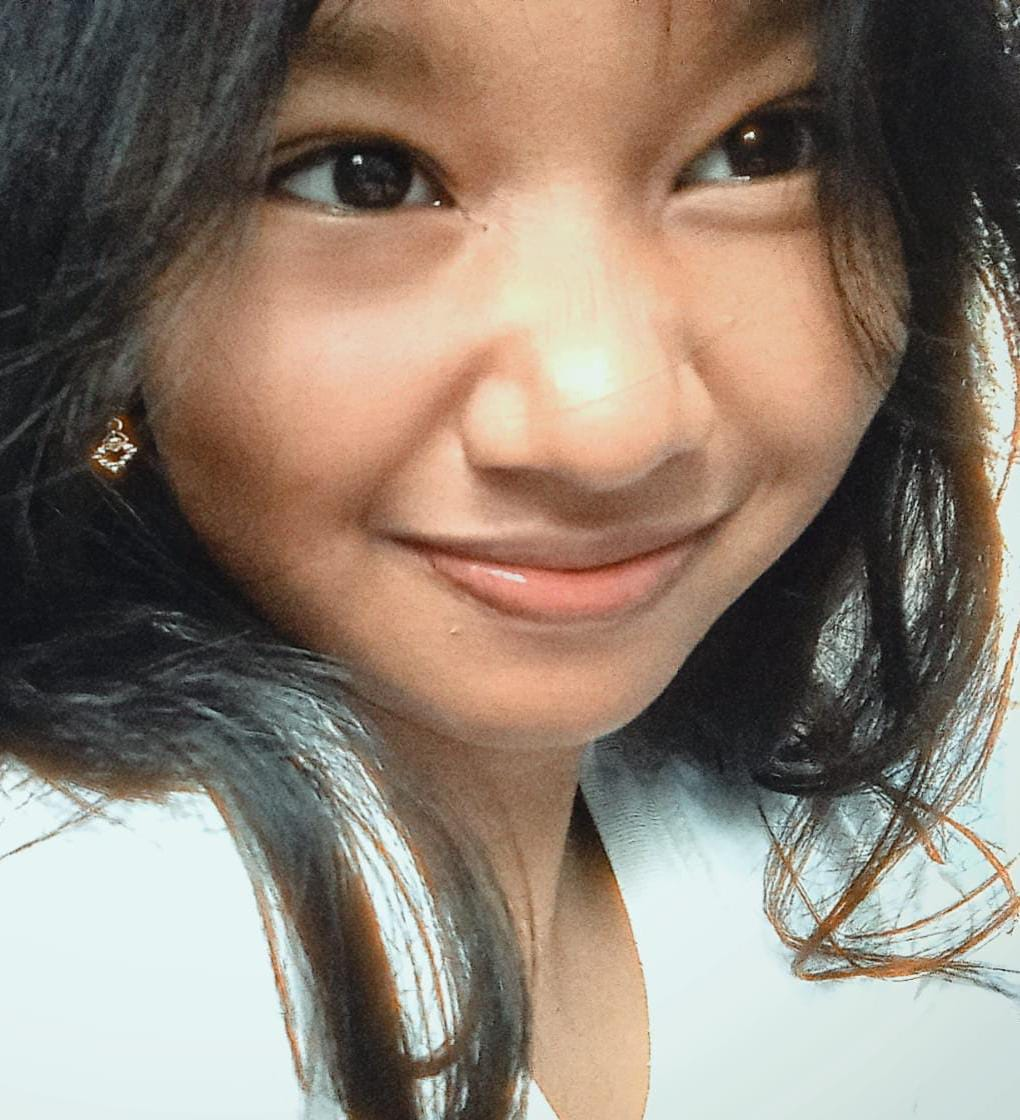
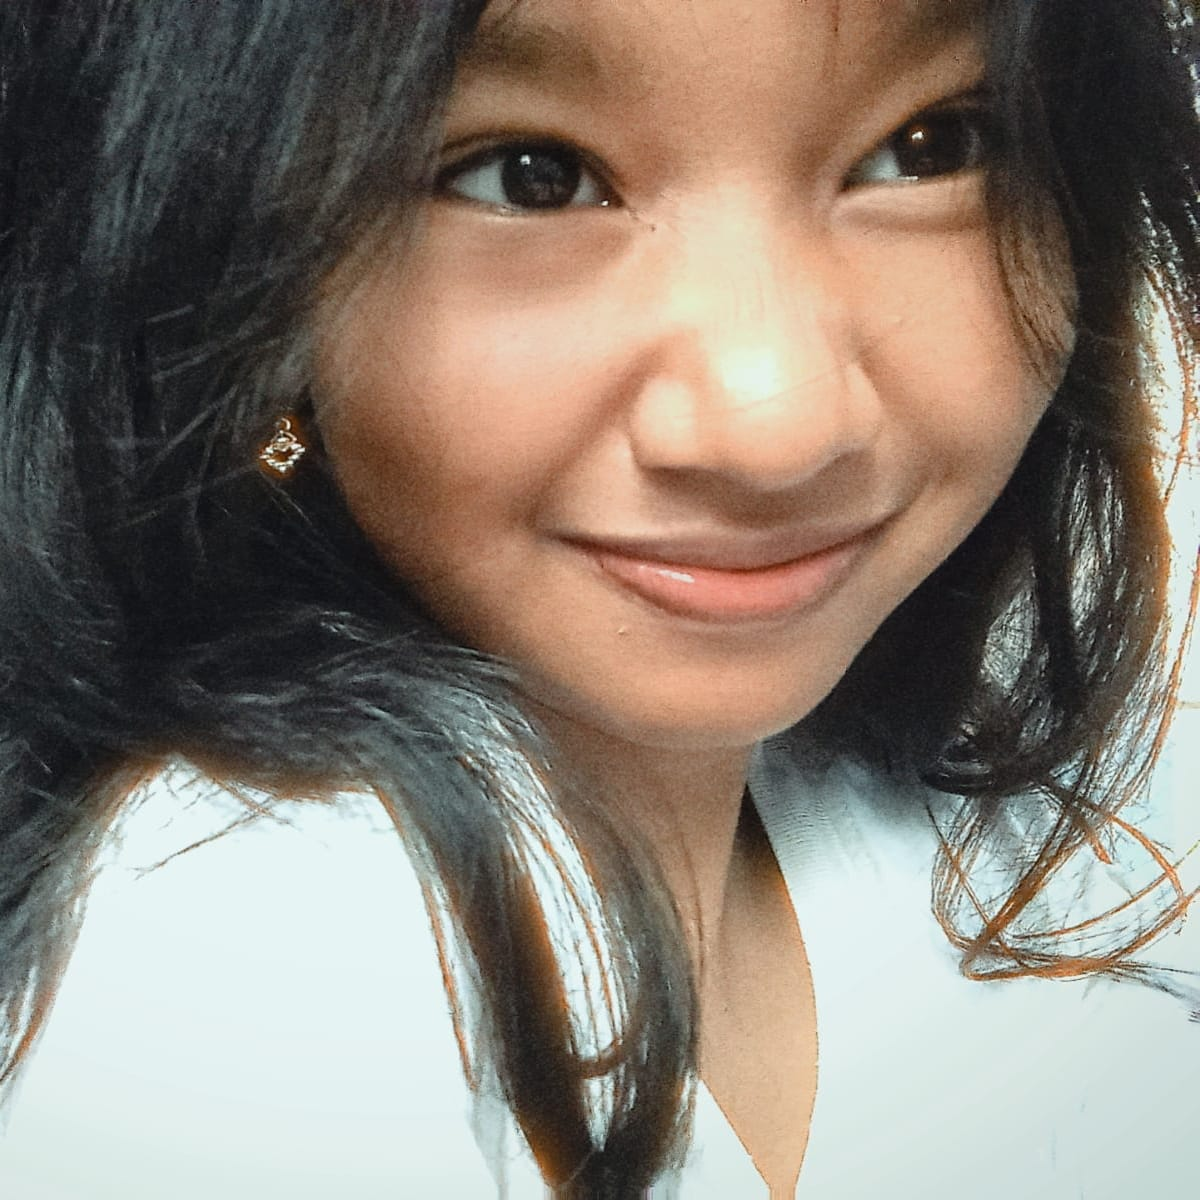
Add files via upload
80%

diff --git a/wellcome.html b/wellcome.html
@@ -10,7 +10,7 @@
     <link rel="preconnect" href="https://fonts.googleapis.com">
     <link rel="preconnect" href="https://fonts.gstatic.com" crossorigin>
     <link href="https://fonts.googleapis.com/css2?family=Poppins:wght@300;400;600&display=swap" rel="stylesheet">
-    
+    <link rel="shortcut icon" href="images/gift.png" type="image/x-icon">
     <link rel="stylesheet" href="css/csa.css" />
 </head>
 
@@ -21,13 +21,13 @@
         <div class="one">
             <h1 class="one">
                 Haii
-                <span id="name">Adekk</span>
+                <span id="name">Ayaa</span>
             </h1>
-            <p class="two" id="greetingText">Gak Kerasa Udah mau Tamat SMP!</p>
+            <p class="two" id="greetingText">Hari ini kamu berumur 16 tahun</p>
         </div>
 
         <div class="three">
-            <p>It's your birthday!! :D</p>
+            <p>Selamatt yak :D</p>
         </div>
 
         <div class="four">
@@ -40,15 +40,15 @@
         </div>
 
         <div class="five">
-            <p class="idea-1">That's what I was going to do.</p>
-            <p class="idea-2">But then I stopped.</p>
+            <p class="idea-1">Tadinya aku hanya ingin mengirimkan pesan itu saja.</p>
+            <p class="idea-2">Namun....</p>
             <p class="idea-3">
-                I realised, I wanted to do something<br>
+                Aku menyadari, aku ingin melakukan sesuatu yang <br>
                 <strong>special</strong>.
             </p>
-            <p class="idea-4">Because,</p>
+            <p class="idea-4">Karena,</p>
             <p class="idea-5">
-                You are Special
+                Kamu se-spesial itu
                 <span>:)</span>
             </p>
             <p class="idea-6">
@@ -59,10 +59,9 @@
 
         <div class="six">
             <img src="./img/image.png" alt="profile" class="profile-picture" id="imagePath"/>
-            <img src="./img/hat.svg" alt="hat" class="hat" />
             <div class="wish">
                 <h3 class="wish-hbd">Happy Birthday!</h3>
-                <h5 id="wishText">May the js.prototypes always be with you! ;)</h5>
+                <h5 id="wishText">I hope you Always Happy ;)</h5>
             </div>
         </div>
 
@@ -109,18 +108,13 @@
             <svg viewBox="0 0 40 40" xmlns="http://www.w3.org/2000/svg"><circle cx="20" cy="20" r="20" /></svg>
             <svg viewBox="0 0 40 40" xmlns="http://www.w3.org/2000/svg"><circle cx="20" cy="20" r="20" /></svg>
             <svg viewBox="0 0 40 40" xmlns="http://www.w3.org/2000/svg"><circle cx="20" cy="20" r="20" /></svg>
-            <svg viewBox="0 0 40 40" xmlns="http://www.w3.org/2000/svg"><circle cx="20" cy="20" r="20" /></svg>
-            <svg viewBox="0 0 40 40" xmlns="http://www.w3.org/2000/svg"><circle cx="20" cy="20" r="20" /></svg>
-            <svg viewBox="0 0 40 40" xmlns="http://www.w3.org/2000/svg"><circle cx="20" cy="20" r="20" /></svg>
-            <svg viewBox="0 0 40 40" xmlns="http://www.w3.org/2000/svg"><circle cx="20" cy="20" r="20" /></svg>
-            <svg viewBox="0 0 40 40" xmlns="http://www.w3.org/2000/svg"><circle cx="20" cy="20" r="20" /></svg>
         </div>
 
         <div class="nine">
-            <p>Okay, now come back and tell me if you liked it.</p>
+            <p>Oke, sekarang kamu bisa lanjutkan ke animasi selanjutnya atau replay animasi sebelumnya</p>
             <div class="button-wrapper">
                 <button id="btnReplay" class="btn-glow">Replay</button>
-                <a href="index.html" class="btn-glow">Lanjut</a>
+                <a href="index.html" class="btn-glow">Next</a>
             </div>
             <p class="last-smile">:)</p>
         </div>

diff --git a/css/csa.css b/css/csa.css
@@ -28,15 +28,12 @@ body {
   filter: blur(0.1vmin);
   background-image: 
     radial-gradient(ellipse at top, transparent 0%, var(--dark-color)), 
-    radial-gradient(ellipse at bottom, var(--dark-color), rgba(255, 145, 145, 0.1)), 
+    radial-gradient(ellipse at bottom, var(--dark-color), rgba(30, 112, 255, 0.2)), 
     repeating-linear-gradient(220deg, rgb(0, 0, 0) 0px, rgb(0, 0, 0) 19px, transparent 19px, transparent 22px), 
     repeating-linear-gradient(189deg, rgb(0, 0, 0) 0px, rgb(0, 0, 0) 19px, transparent 19px, transparent 22px), 
-    repeating-linear-gradient(148deg, rgb(0, 0, 0) 0px, rgb(0, 0, 0) 19px, transparent 19px, transparent 22px);
+    repeating-linear-gradient(148deg, rgb(0, 0, 0) 0px, rgb(0, 0, 0) 19px, transparent 19px, transparent 22px),
+    linear-gradient(90deg, rgb(255, 255, 250), rgb(240, 240, 240));
   z-index: -1;
-}
-
-.song {
-  visibility: hidden;
 }
 
 .container {
@@ -106,19 +103,11 @@ body {
 }
 .six img.profile-picture {
   display: inline-block;
-  height: 350px;
+  height: 250px;
   max-width: 100%;
-  border-radius: 50%; /* Opsional: membuat foto bulat */
+  border-radius: 50%; 
   border: 3px solid var(--text-light);
-}
-.six .hat {
-  position: absolute;
-  width: 80px;
-  top: -35px;
-  left: 50%;
-  transform: translateX(-50%) rotate(-20deg); /* Penyesuaian posisi topi */
-  z-index: 2;
-  opacity: 0;
+  object-fit: cover;
 }
 
 .wish-hbd { font-size: 3em; margin: 0; text-transform: uppercase; }
@@ -131,7 +120,7 @@ body {
   width: 100vw;
   position: fixed;
   top: 0;
-  pointer-events: none; /* Agar klik tembus ke bawah */
+  pointer-events: none; 
 }
 
 .baloons img { display: inline-block; position: absolute; }
@@ -148,19 +137,17 @@ body {
   z-index: -1;
 }
 
-/* Mengatur posisi SVG confetti (disingkat, tetap gunakan posisi asli) */
-.eight svg:nth-child(1) { fill: #bd6ecf; left: 5vw; top: 7vh; }
-.eight svg:nth-child(2) { fill: #7dd175; left: 35vw; top: 23vh; }
-.eight svg:nth-child(3) { fill: #349d8b; left: 23vw; top: 33vh; }
-.eight svg:nth-child(4) { fill: #347a9d; left: 57vw; top: 43vh; }
+.eight svg:nth-child(1) { fill: #a31cc1a2; left: 5vw; top: 7vh; }
+.eight svg:nth-child(2) { fill: #f1ee3085; left: 35vw; top: 23vh; }
+.eight svg:nth-child(3) { fill: #cb141aa6; left: 23vw; top: 33vh; }
+.eight svg:nth-child(4) { fill: #347a9dcb; left: 57vw; top: 43vh; }
 .eight svg:nth-child(5) { fill: #c66053; left: 7vw; top: 68vh; }
 .eight svg:nth-child(6) { fill: #bfaa40; left: 77vw; top: 42vh; }
 .eight svg:nth-child(7) { fill: #e3bae8; left: 83vw; top: 68vh; }
 .eight svg:nth-child(8) { fill: #8762cb; left: 37vw; top: 86vh; }
 .eight svg:nth-child(9) { fill: #9a90da; left: 87vw; top: 94vh; }
 
-/* Button Styles */
-/* Cari bagian ini di csa.css dan update */
+
 .nine .button-wrapper {
     display: flex;
     justify-content: center;
@@ -168,8 +155,6 @@ body {
     margin-top: 30px;
     position: relative;
     z-index: 10;
-    
-    /* TAMBAHAN PENTING: Sembunyikan tombol di awal */
     opacity: 0;
     visibility: hidden; 
 }
@@ -207,3 +192,11 @@ body {
   .nine p { font-size: 1.5rem; }
   .btn-glow { width: 80%; text-align: center; }
 }
+
+@media screen and (max-width: 768px) {
+    .profile-img {
+        width: 80px;  /* Ukuran lebih kecil untuk HP */
+        height: 80px;
+    }
+}
+

diff --git a/css/index.css b/css/index.css
@@ -18,31 +18,50 @@
   width: 100%;
   height: 100%;
   filter: blur(0.1vmin);
-  background-image: radial-gradient(ellipse at top, transparent 0%, var(--dark-color)), radial-gradient(ellipse at bottom, var(--dark-color), rgba(145, 233, 255, 0.2)), repeating-linear-gradient(220deg, rgb(0, 0, 0) 0px, rgb(0, 0, 0) 19px, transparent 19px, transparent 22px), repeating-linear-gradient(189deg, rgb(0, 0, 0) 0px, rgb(0, 0, 0) 19px, transparent 19px, transparent 22px), repeating-linear-gradient(148deg, rgb(0, 0, 0) 0px, rgb(0, 0, 0) 19px, transparent 19px, transparent 22px), linear-gradient(90deg, rgb(255, 255, 250), rgb(240, 240, 240));
+  background-image: 
+   radial-gradient(ellipse at top, transparent 0%, var(--dark-color)), 
+   radial-gradient(ellipse at bottom, var(--dark-color), rgba(30, 112, 255, 0.2)), 
+   repeating-linear-gradient(220deg, rgb(0, 0, 0) 0px, rgb(0, 0, 0) 19px, transparent 19px, transparent 22px), 
+   repeating-linear-gradient(189deg, rgb(0, 0, 0) 0px, rgb(0, 0, 0) 19px, transparent 19px, transparent 22px), 
+   repeating-linear-gradient(148deg, rgb(0, 0, 0) 0px, rgb(0, 0, 0) 19px, transparent 19px, transparent 22px), 
+   linear-gradient(90deg, rgb(255, 255, 250), rgb(240, 240, 240));
 }
 
+/* Tampilan Default (Mobile First - untuk HP) */
 .title {
   position: absolute;
   top: 0;
   left: 0;
   color: white;
   font-family: 'Courier New', Courier, monospace;
-
   display: flex;
   flex-wrap: wrap;
   justify-content: center;
   align-content: center;
   align-items: center;
-
   width: 100%;
   height: 100vh;
   text-shadow: 0 0 20px white;
-  letter-spacing: 0px;
+  
+  font-size: 1.5rem;    
+  padding: 0 20px;      
+  letter-spacing: 2px;
+  line-height: 1.6;
 }
 
-@media (min-width: 500px) {
+@media (min-width: 600px) {
   .title {
-    letter-spacing: 20px;
+    font-size: 2.5rem;   
+    padding: 0 50px;
+    letter-spacing: 10px;
+  }
+}
+
+@media (min-width: 1024px) {
+  .title {
+    font-size: 2.5rem;     
+    padding: 0 100px;
+    letter-spacing: 15px;
   }
 }
 

diff --git a/css/style.css b/css/style.css
@@ -50,7 +50,12 @@ body {
   width: 100%;
   height: 100%;
   filter: blur(0.1vmin);
-  background-image: radial-gradient(ellipse at top, transparent 0%, var(--dark-color)), radial-gradient(ellipse at bottom, var(--dark-color), rgba(145, 233, 255, 0.2)), repeating-linear-gradient(220deg, rgb(0, 0, 0) 0px, rgb(0, 0, 0) 19px, transparent 19px, transparent 22px), repeating-linear-gradient(189deg, rgb(0, 0, 0) 0px, rgb(0, 0, 0) 19px, transparent 19px, transparent 22px), repeating-linear-gradient(148deg, rgb(0, 0, 0) 0px, rgb(0, 0, 0) 19px, transparent 19px, transparent 22px), linear-gradient(90deg, rgb(255, 255, 250), rgb(240, 240, 240));
+  background-image: 
+    radial-gradient(ellipse at top, transparent 0%, var(--dark-color)), radial-gradient(ellipse at bottom, var(--dark-color), rgba(30, 112, 255, 0.2)),
+    repeating-linear-gradient(220deg, rgb(0, 0, 0) 0px, rgb(0, 0, 0) 19px, transparent 19px, transparent 22px),
+    repeating-linear-gradient(189deg, rgb(0, 0, 0) 0px, rgb(0, 0, 0) 19px, transparent 19px, transparent 22px),
+    repeating-linear-gradient(148deg, rgb(0, 0, 0) 0px, rgb(0, 0, 0) 19px, transparent 19px, transparent 22px),
+    linear-gradient(90deg, rgb(255, 255, 250), rgb(240, 240, 240));
 }
 
 .flowers {

diff --git a/js/csgo.js b/js/csgo.js
@@ -5,7 +5,7 @@ window.addEventListener('load', () => {
         icon: 'success', // Icon diganti jadi sukses/centang agar lebih ceria
         showCancelButton: false, // Menghilangkan tombol "No"
         confirmButtonColor: '#3085d6',
-        confirmButtonText: 'Next', // Teks tombol diganti jadi "Next"
+        confirmButtonText: 'Thank U', // Teks tombol diganti jadi "Next"
     }).then((result) => {
         if (result.isConfirmed) {
             // Musik dihapus, langsung jalankan animasi

diff --git a/js/index.js b/js/index.js
@@ -5,7 +5,7 @@ const text = `I Have Something For U`.split('')
 title.style.display = 'flex'
 title.style.flexWrap = 'wrap'
 title.style.justifyContent = 'center'
-title.style.gap = '0.5rem'
+title.style.gap = '0.3rem'
 
 for (let index = 0; index < text.length; index++) {
   if (text[index] !== ' ') {

diff --git a/index.html b/index.html
@@ -7,7 +7,7 @@
   <link rel="stylesheet" href="css/index.css">
 
   <!-- Document Title -->
-  <title>FLOWERS FOR SOMEONE</title>
+  <title>FOR SOMEONE</title>
 </head>
 
 <body>
